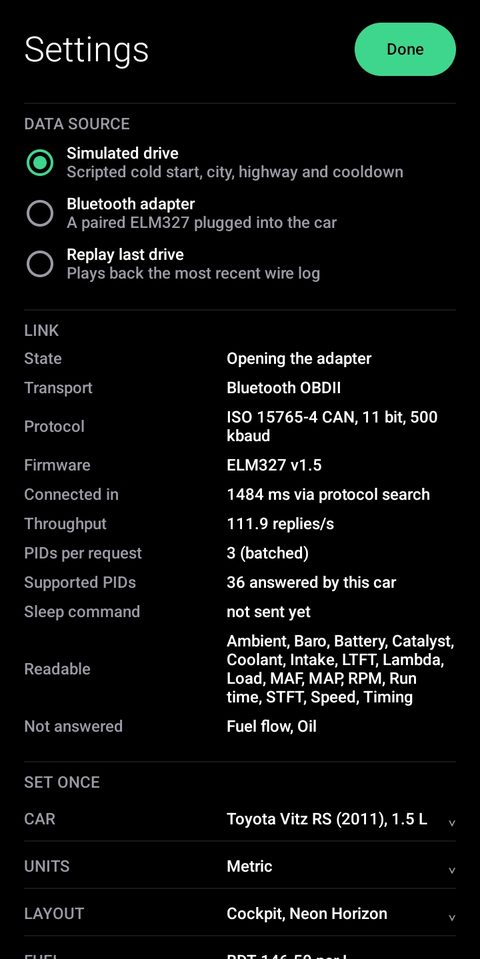
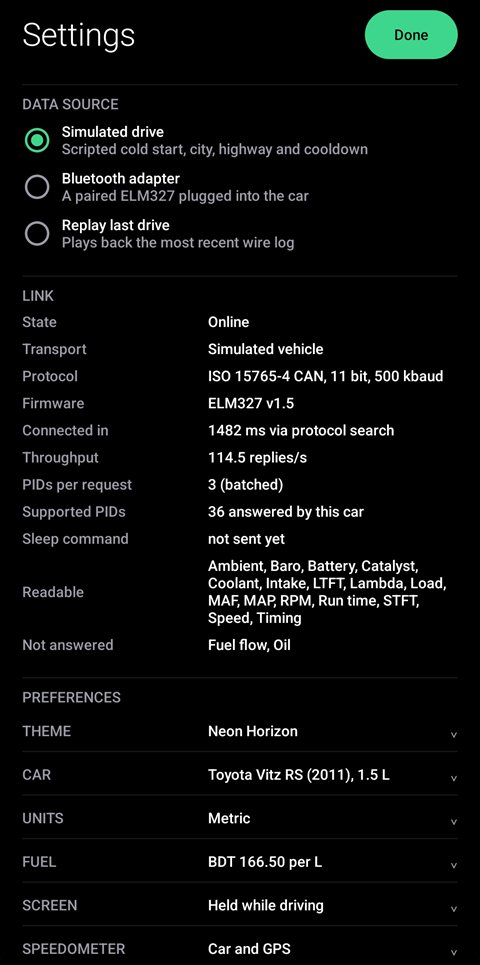
Manual: add Recall, drop the four-screen layout
Recall joins the theme grid. The "Prefer a simpler view with dials?" box,
its Cluster image and its CSS are gone with the layout itself. The theme is
picked under Theme in Settings, and the Settings screenshot is retaken from
1.2.0, with Preferences and Theme first.

diff --git a/manual.html b/manual.html
@@ -78,8 +78,6 @@
   .box.good { background: var(--good-bg); box-shadow: inset 0 0 0 1px var(--good-edge); }
   .box.warn { background: var(--warn-bg); box-shadow: inset 0 0 0 1px var(--warn-edge); }
   .box .k { color: var(--head); }
-  .box.split { display: flex; gap: 1.1rem; align-items: center; }
-  .box.split > .frame { width: 16rem; flex: none; }
   .info {
     display: inline-flex; align-items: center; justify-content: center;
     width: 1em; height: 1em; border: 1px solid var(--head); border-radius: 50%;
@@ -98,8 +96,6 @@
     .cols, .pair { grid-template-columns: 1fr; gap: 1.1rem; }
     .beside { flex-direction: column; }
     .beside > .shot, .beside > .shot.narrow { width: min(14rem, 70%); align-self: center; }
-    .box.split { flex-direction: column; align-items: stretch; }
-    .box.split > .frame { width: 100%; }
   }
   @media (max-width: 30rem) {
     .themes { grid-template-columns: 1fr; }
@@ -195,7 +191,7 @@
   <h2>Everything on one screen. Nothing needs a tap while moving.</h2>
   <p style="margin-top:.8rem">Speed, revs, load, economy, coolant and battery on one panel, with the
     drive's totals underneath. It turns sideways with the phone, and one swipe brings up
-    <b>Diagnostics</b>. Pick its look in Settings, under <b>Layout</b>, then <b>Cockpit theme</b>.</p>
+    <b>Diagnostics</b>. Pick its look in Settings, under <b>Theme</b>.</p>
 
   <div class="themes">
     <figure>
@@ -219,6 +215,10 @@
       <h3>Terminal</h3><p class="sm">Each reading beside the PID it came from; tap a PID for what it is. Shown in sport.</p>
     </figure>
     <figure>
+      <div class="frame"><img src="img/cockpit-recall.jpg" width="1000" height="454" loading="lazy" alt="Cockpit in the Recall theme"></div>
+      <h3>Recall</h3><p class="sm">Each dial keeps the drive's highest in blue, and the battery its range.</p>
+    </figure>
+    <figure>
       <div class="frame"><img src="img/cockpit-neon-warp.jpg" width="1000" height="453" loading="lazy" alt="Neon Horizon in warp"></div>
       <h3>Warp</h3><p class="sm">Neon Horizon on a hard pull or a steady cruise.</p>
     </figure>
@@ -229,7 +229,8 @@
     <div>
       <div class="k">The strip along the top</div>
       <p>Always there: whether the phone has the car, whether the engine is running, and whether the
-        check engine light is on. Terminal keeps it at the foot, as a prompt.</p>
+        check engine light is on. Terminal keeps it at the foot, as a prompt, and Recall under the
+        trip figures.</p>
       <p>Anything serious takes it over, pulls you back to the dashboard and chimes: twice for
         overheating or a charging voltage that is too high, once for a check engine light. Silent
         mode is respected. A battery that is not being charged shows in amber without a chime; the
@@ -237,20 +238,10 @@
     </div>
     <div>
       <div class="k">Reading it at a glance</div>
-      <p>Black with large, thin markings, because it is meant to be glanced at rather than read.
+      <p>Every theme is dark, so the screen does not light up the cabin at night.
         Green means a reading is where it should be, amber worth a look, red stop.</p>
       <p>The display stays awake while the engine runs. If the phone isn't plugged in, turn that off
         in Settings.</p>
-    </div>
-  </div>
-
-  <div class="box split">
-    <div class="frame"><img src="img/cluster.jpg" width="1000" height="437" loading="lazy"
-         alt="The Cluster screen, with round dials, in landscape"></div>
-    <div>
-      <h3>Prefer a simpler view with dials?</h3>
-      <p>Turn off <b>Cockpit layout</b> and the dashboard becomes four screens to swipe between —
-        Drive, Cluster, Economy and Diagnostics — with fewer, larger gauges each.</p>
     </div>
   </div>
 
@@ -374,8 +365,8 @@
       </div>
     </div>
     <div class="shot">
-      <div class="frame"><img src="img/settings.jpg" width="480" height="959" loading="lazy" alt="Settings screen"></div>
-      <p class="sm">Settings: where readings come from, what this car reports, and the layout.</p>
+      <div class="frame"><img src="img/settings.jpg" width="480" height="965" loading="lazy" alt="Settings screen"></div>
+      <p class="sm">Settings: where readings come from, what this car reports, and the theme.</p>
     </div>
   </div>
 
